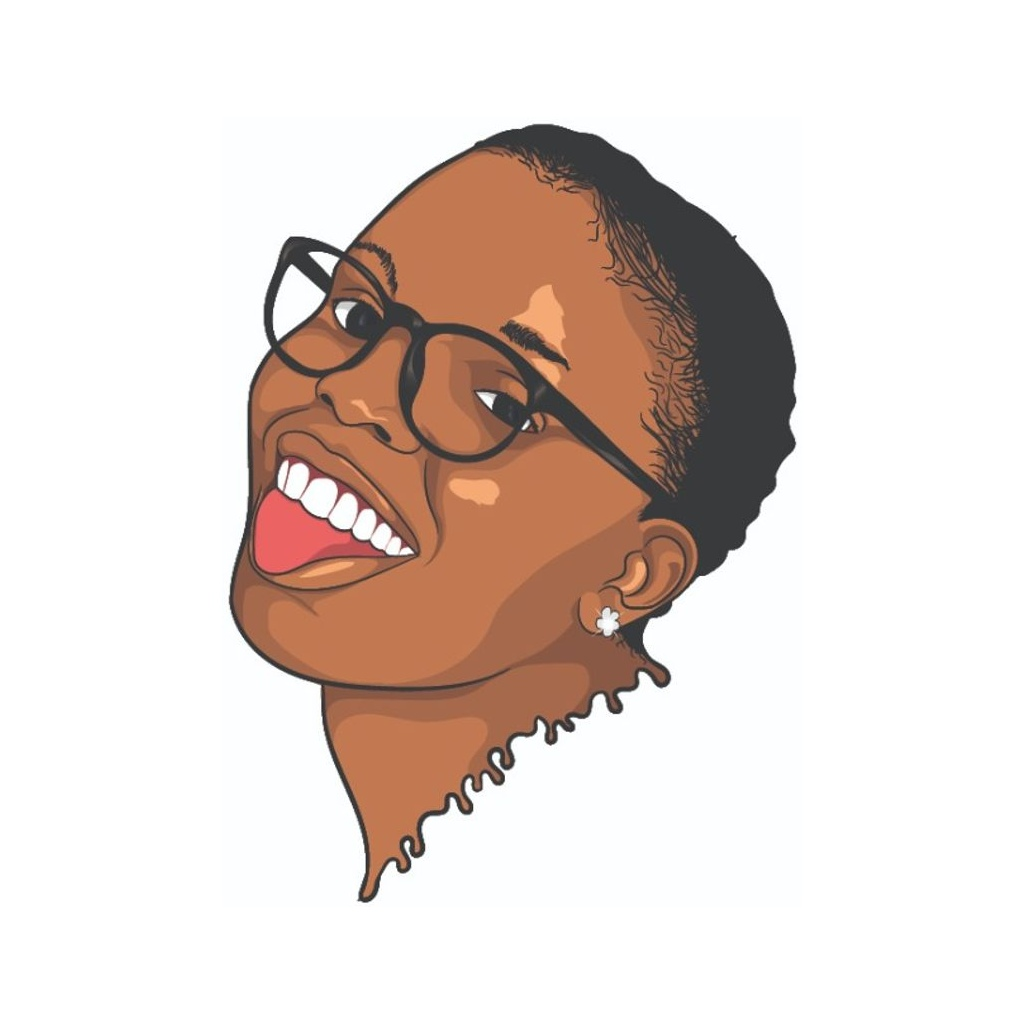
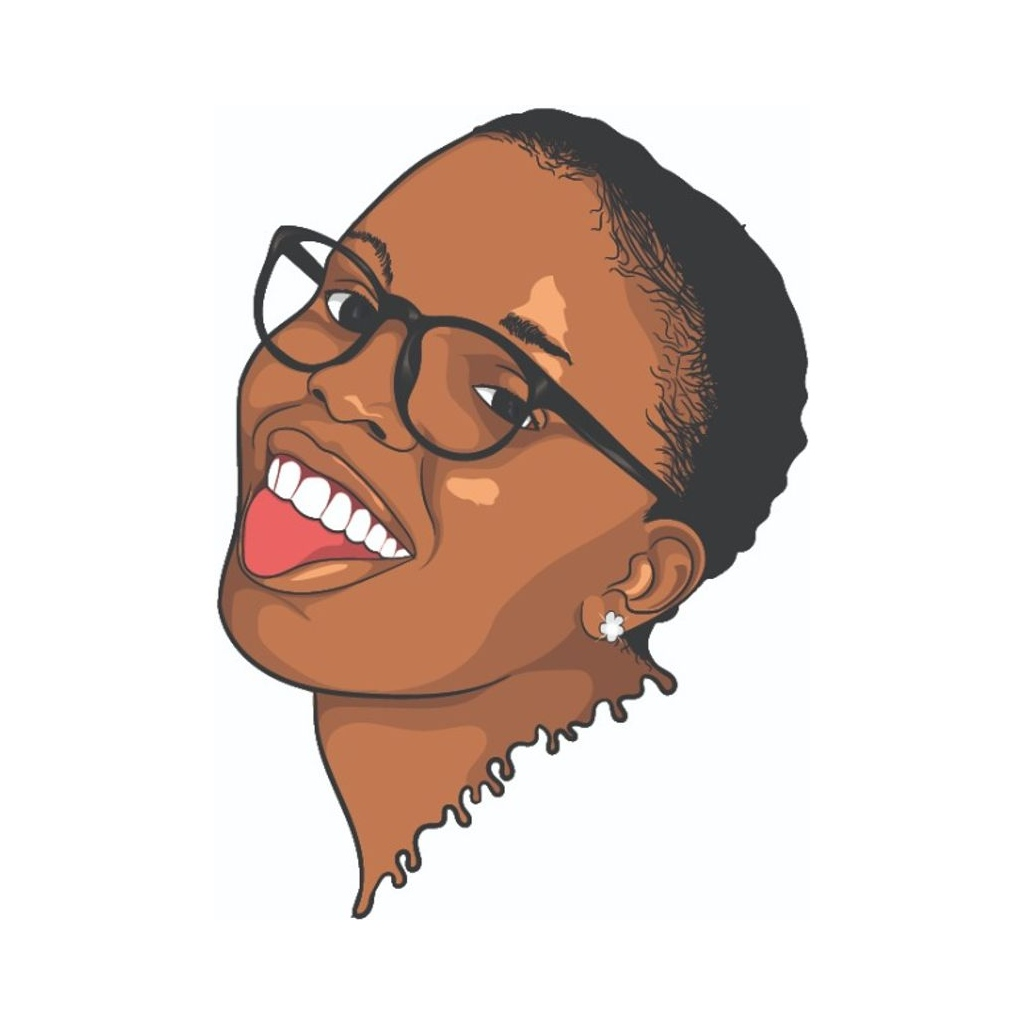
feat(illustration): zoom faces to 80% vertical card height with cache-busted v2 assets, preserving chimp

Changed region(s): [[0.1875, 0.0938, 0.8125, 0.9062], [0.5, 0.625, 0.5625, 0.6562]]

diff --git a/lib/portfolio-data.ts b/lib/portfolio-data.ts
@@ -78,7 +78,7 @@ export const PORTFOLIO_CATEGORIES: PortfolioCategory[] = [
         id: "il-drip-portrait-female",
         title: "Joyful Drip Portrait",
         year: "2025",
-        imageUrl: "/works/illustrations/drip-portrait-female.jpg",
+        imageUrl: "/works/illustrations/drip-portrait-female-v2.jpg",
         description: "Expressive minimalist vector portrait featuring warm skin tones, chic eyewear, and signature melting neck contour.",
         aspectRatio: "1/1",
         bgColor: "#ffffff",
@@ -87,7 +87,7 @@ export const PORTFOLIO_CATEGORIES: PortfolioCategory[] = [
         id: "il-drip-portrait-male",
         title: "Shaded Drip Portrait",
         year: "2025",
-        imageUrl: "/works/illustrations/drip-portrait-male.jpg",
+        imageUrl: "/works/illustrations/drip-portrait-male-v2.jpg",
         description: "Cool contemporary character illustration pairing metallic sunglasses and earbud with fluid dripping neckline geometry.",
         aspectRatio: "1/1",
         bgColor: "#ffffff",
@@ -96,7 +96,7 @@ export const PORTFOLIO_CATEGORIES: PortfolioCategory[] = [
         id: "il-expressive-portrait",
         title: "Ecstatic Expression",
         year: "2025",
-        imageUrl: "/works/illustrations/expressive-portrait.png",
+        imageUrl: "/works/illustrations/expressive-portrait-v2.png",
         description: "High-energy vector caricature exploring exaggerated facial anatomy, ecstatic laughter, and rich chromatic teal contrast.",
         aspectRatio: "1/1",
         bgColor: "#57a1ab",
@@ -105,7 +105,7 @@ export const PORTFOLIO_CATEGORIES: PortfolioCategory[] = [
         id: "il-bandana-portrait",
         title: "Paisley Masked Portrait",
         year: "2026",
-        imageUrl: "/works/illustrations/bandana-portrait.jpg",
+        imageUrl: "/works/illustrations/bandana-portrait-v2.jpg",
         description: "Striking vector character portrait featuring an intense gaze and ornate black paisley bandana over royal cobalt blue canvas.",
         aspectRatio: "1/1",
         bgColor: "#2b3690",

diff --git a/components/sections/works-section.tsx b/components/sections/works-section.tsx
@@ -16,10 +16,10 @@ const BRAND_IDENTITY_IMAGES = [
 
 const ILLUSTRATION_IMAGES = [
   { src: "/works/illustrations/urban-designer.png", title: "Urban Designer Ape", bg: "#000000" },
-  { src: "/works/illustrations/drip-portrait-female.jpg", title: "Joyful Drip Portrait", bg: "#ffffff" },
-  { src: "/works/illustrations/drip-portrait-male.jpg", title: "Shaded Drip Portrait", bg: "#ffffff" },
-  { src: "/works/illustrations/expressive-portrait.png", title: "Ecstatic Expression", bg: "#57a1ab" },
-  { src: "/works/illustrations/bandana-portrait.jpg", title: "Paisley Masked Portrait", bg: "#2b3690" },
+  { src: "/works/illustrations/drip-portrait-female-v2.jpg", title: "Joyful Drip Portrait", bg: "#ffffff" },
+  { src: "/works/illustrations/drip-portrait-male-v2.jpg", title: "Shaded Drip Portrait", bg: "#ffffff" },
+  { src: "/works/illustrations/expressive-portrait-v2.png", title: "Ecstatic Expression", bg: "#57a1ab" },
+  { src: "/works/illustrations/bandana-portrait-v2.jpg", title: "Paisley Masked Portrait", bg: "#2b3690" },
 ];
 
 function BrandIdentityAnimatedCard() {
